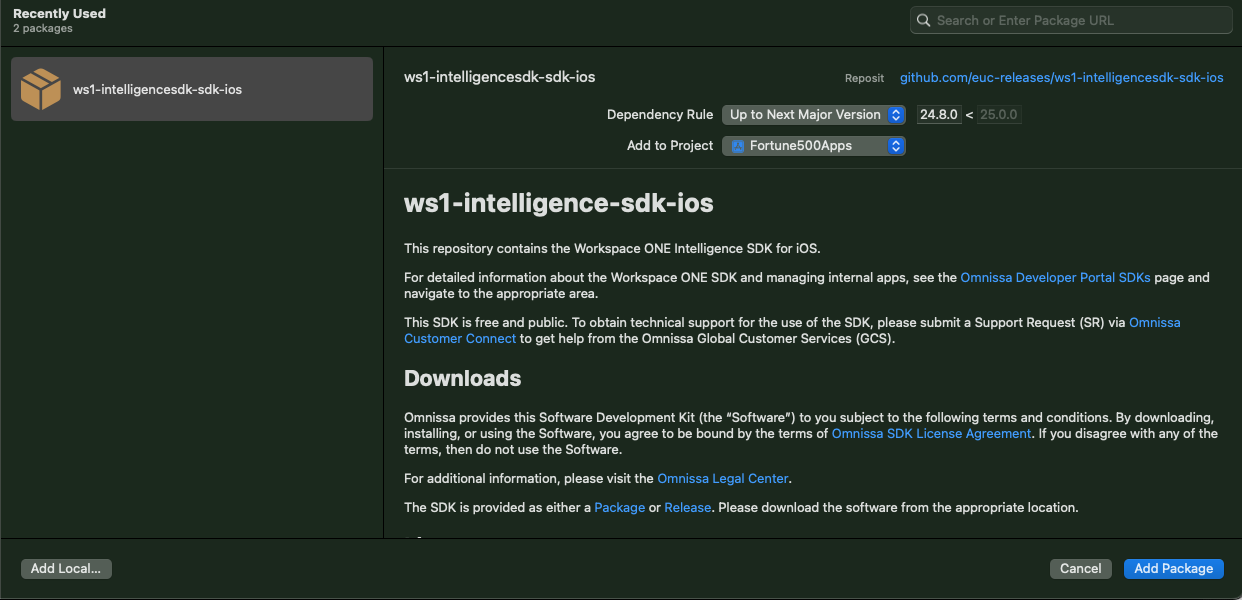
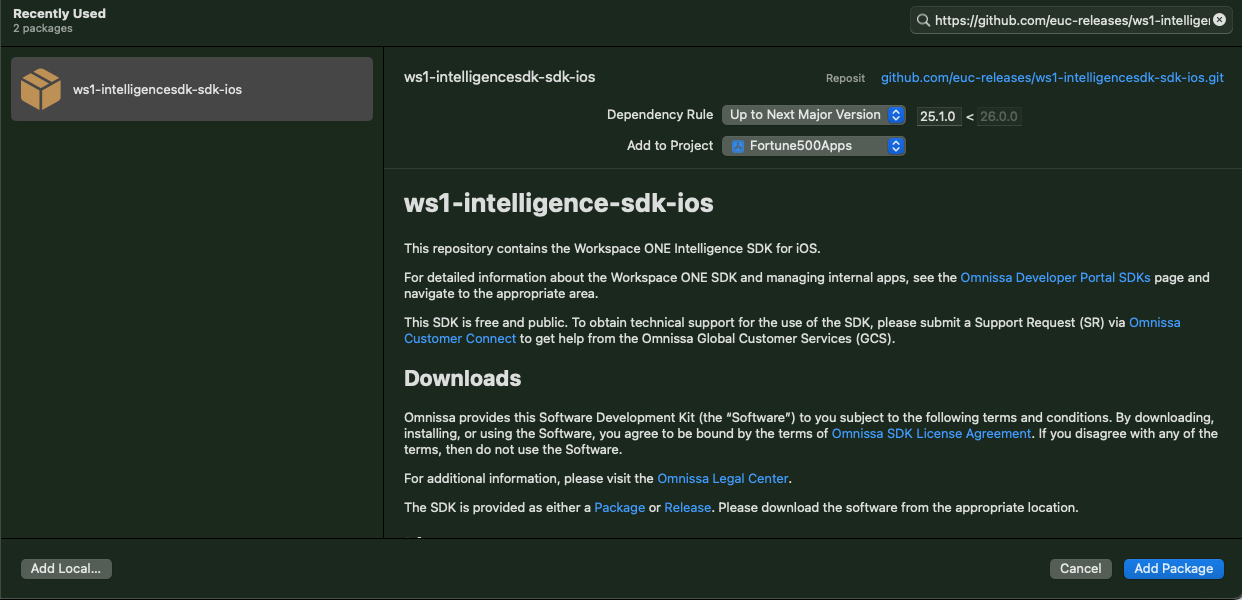
INTELSDK-2765 update iOS 25.1.0 Release Notes and documentation - minimum ios version changed to 16.0 - screenshot of SPM install updated - changed wording for 'WS1IntelligenceSDKDSYMUpload.zip' to not mention a specific release version.    - fixed bad URL (24.3.0 release was deleted for branding) -

Changed region(s): [[0.6731, 0.12, 1.0, 0.15], [0.7343, 0.03, 1.0, 0.06], [0.7343, 0.18, 0.8261, 0.21]]

diff --git a/docs/Apple/install-ios.md b/docs/Apple/install-ios.md
@@ -69,11 +69,11 @@ Register your app at the Omnissa Intelligence portal to get an App ID to be used
 !!!Warning
     Please note that cURL (a dependency for the script) has a known issue which may cause a failure inside the script while uploading large dSYM files. The version of cURL that ships with the latest OSX builds has been confirmed to exhibit this issue (7.64.1). If you experience problems during the upload phase of the script, try to upgrade to a newer version. Version 7.69.1 has been confirmed to resolve the issue.
 
-- Download [WS1IntelligenceSDKDSYMUpload.zip](https://github.com/euc-releases/ws1-intelligencesdk-sdk-ios/releases/download/24.3.0/WS1IntelligenceSDKDSYMUpload.zip) and expand the zip file.
+- Download WS1IntelligenceSDKDSYMUpload.zip [from the release you are using](https://github.com/euc-releases/ws1-intelligencesdk-sdk-ios/releases) and expand the zip file.
 - Place the 2 files in an appropriate place in your project.
 - In your Xcode application target’s “Build Phases” tab, add a new Run Script phase.
 
-![](.xcode-run-script.png)
+![](xcode-run-script.png)
 
 - Copy and paste the script code below into the Run Script phase, then update the path components to the directory you chose.
 

diff --git a/docs/Apple/release-notes.md b/docs/Apple/release-notes.md
@@ -6,11 +6,33 @@ hide:
   - toc
 ---
 
-Updated December 18, 2024
+Updated February 4, 2025
 
 ## What's in the Release Notes
 
 These release notes describe the new features and enhancements in each release of Omnissa IntelligenceSDK for iOS. (Sometimes called "IntelligenceSDK".) This page contains a summary of the new capabilities, issues that have been resolved, and known issues that have been reported in each release. Omnissa IntelligenceSDK for iOS is a set of tools allow iOS apps to send telemetry data to the Omnissa Intelligence backend. 
+
+
+## Omnissa IntelligenceSDK for iOS 25.1.0 Release - February 2025
+
+### Minimum Requirements
+
+- iOS 16.0 device or iPadOS 16.0 device
+- tvOS devices and app extensions are no longer supported
+- visionOS for Vision Pro devices is not supported
+
+### New Features
+
+none 
+
+### Resolved Issues
+
+- A bug that was causing recursive loading of “about:blank“ pages in WKWebView under specific conditions was fixed.
+
+### Known Issues
+
+none
+
 
 ## Omnissa IntelligenceSDK for iOS 24.11.0 Release - December 2024
 

diff --git a/docs/Apple/index.md b/docs/Apple/index.md
@@ -16,7 +16,7 @@ Release Notes can be viewed [here](release-notes.md).
 
 ## Application Requirements
 
-- iOS 15.0 and above.
+- iOS 16.0 and above.
 - SystemConfiguration Framework
 - CoreData Framework
 
